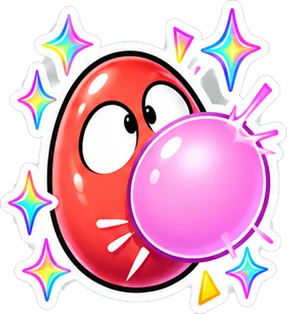
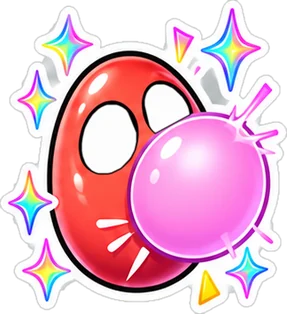
Album v3: 94 Sky Tower story cards st25..st118 + re-fixed s060/s181 (no pupils)
Claude-Session: https://claude.ai/code/session_01LHndj2uT8edrVs5YnsiCos

diff --git a/index.html b/index.html
@@ -7,7 +7,7 @@
 <style>html,body{overscroll-behavior:none;-webkit-user-select:none;user-select:none;-webkit-touch-callout:none;-webkit-tap-highlight-color:transparent}
 #pwaHint{position:fixed;left:12px;right:12px;bottom:calc(14px + env(safe-area-inset-bottom));z-index:99999;background:#1b1240;color:#fff;border:3px solid #120d2b;border-radius:18px;padding:12px 44px 12px 14px;font:600 15px/1.35 Rubik,system-ui,sans-serif;box-shadow:0 6px 0 #0a0620,0 10px 30px rgba(0,0,0,.4);direction:rtl}
 #pwaHint b{color:#ffd23f}#pwaHint button{position:absolute;top:8px;left:10px;background:none;border:0;color:#fff;font-size:22px;line-height:1}</style>
-<script>(function(){var OK=["en", "he", "es", "pt", "fr", "de", "it", "ru", "tr", "ar", "ja", "ko", "zh", "id"];window.LANG_NAMES={"en": "English", "he": "עברית", "es": "Español", "pt": "Português", "fr": "Français", "de": "Deutsch", "it": "Italiano", "ru": "Русский", "tr": "Türkçe", "ar": "العربية", "ja": "日本語", "ko": "한국어", "zh": "中文", "id": "Indonesia"};function dl(){var a=navigator.languages&&navigator.languages.length?navigator.languages:[navigator.language||'en'];for(var i=0;i<a.length;i++){var c=String(a[i]||'').toLowerCase().split(/[-_]/)[0];if(c==='iw')c='he';if(c==='in')c='id';if(OK.indexOf(c)>=0)return c}return 'en'}var d=dl(),s=null;try{s=localStorage.getItem('sharliz-lang')}catch(e){}var l=(s==='en'||s===d)?s:d;window.SHZ_DEV=d;window.SHZ_LANG=l;window.LANGX=null;window.T_=function(x){var X=window.LANGX;return X&&X.pairs&&X.pairs[x]!=null?X.pairs[x]:x};if(l!=='en'&&l!=='he')document.write('<script src="art/i18n_'+l+'.js?v=sharliz-20261008125735"><\/script>')})();</script>
+<script>(function(){var OK=["en", "he", "es", "pt", "fr", "de", "it", "ru", "tr", "ar", "ja", "ko", "zh", "id"];window.LANG_NAMES={"en": "English", "he": "עברית", "es": "Español", "pt": "Português", "fr": "Français", "de": "Deutsch", "it": "Italiano", "ru": "Русский", "tr": "Türkçe", "ar": "العربية", "ja": "日本語", "ko": "한국어", "zh": "中文", "id": "Indonesia"};function dl(){var a=navigator.languages&&navigator.languages.length?navigator.languages:[navigator.language||'en'];for(var i=0;i<a.length;i++){var c=String(a[i]||'').toLowerCase().split(/[-_]/)[0];if(c==='iw')c='he';if(c==='in')c='id';if(OK.indexOf(c)>=0)return c}return 'en'}var d=dl(),s=null;try{s=localStorage.getItem('sharliz-lang')}catch(e){}var l=(s==='en'||s===d)?s:d;window.SHZ_DEV=d;window.SHZ_LANG=l;window.LANGX=null;window.T_=function(x){var X=window.LANGX;return X&&X.pairs&&X.pairs[x]!=null?X.pairs[x]:x};if(l!=='en'&&l!=='he')document.write('<script src="art/i18n_'+l+'.js?v=sharliz-20261008172617"><\/script>')})();</script>
 </head><body>
 <title>Sharliz Stack</title>
 <style>
@@ -8342,7 +8342,7 @@ const GOLDS=[
  ['g28',T_('Golden Landing'),'נחיתת הזהב',T_('The perfect landing, forever in gold.'),'הנחיתה המושלמת, לנצח בזהב.'],
  ['g29',T_('Golden Album'),'אלבום הזהב',T_('For the greatest collector of all.'),'לאספן הגדול מכולם.'],
  ['g30',T_('Golden Egg'),'ביצת הזהב',T_('Something legendary is about to hatch...'),'משהו אגדי עומד לבקוע...']];
-const STK3_ART=new Set(["g01", "g02", "g03", "g04", "g05", "g06", "s025", "s026", "s027", "s028", "s029", "s030", "s031", "s032", "s033", "s034", "s035", "s036", "s037", "s038", "s039", "s040", "s041", "s042", "s043", "s044", "s045", "s046", "s047", "s048", "s049", "s050", "s051", "s052", "s053", "s054", "s055", "s056", "s057", "s058", "s059", "s060", "s061", "s062", "s063", "s064", "s065", "s066", "s067", "s068", "s069", "s070", "s071", "s072", "s073", "s074", "s075", "s076", "s077", "s078", "s079", "s080", "s081", "s082", "s083", "s084", "s085", "s086", "s087", "s088", "s089", "s090", "s091", "s092", "s093", "s094", "s095", "s096", "s097", "s098", "s099", "s100", "s101", "s102", "s103", "s104", "s105", "s106", "s107", "s108", "s109", "s110", "s111", "s112", "s113", "s114", "s115", "s116", "s117", "s118", "s119", "s120", "s121", "s122", "s123", "s124", "s125", "s126", "s127", "s128", "s129", "s130", "s131", "s132", "s133", "s134", "s135", "s136", "s137", "s138", "s139", "s140", "s141", "s142", "s143", "s144", "s145", "s146", "s147", "s148", "s149", "s150", "s151", "s152", "s153", "s154", "s155", "s156", "s157", "s158", "s159", "s160", "s161", "s162", "s163", "s164", "s165", "s166", "s167", "s168", "s181", "s182", "s183", "s184", "s185", "s186", "s187", "s188", "s189", "s190", "s191", "s192", "s193", "s194", "s195", "s196", "s197", "s198", "s199", "s200", "s201", "s202", "s203", "s204", "s205", "s206", "s207", "s208", "s209", "s210", "s211", "s212", "s213", "s214", "s215", "s216", "s217", "s218", "s219", "s220", "s221", "s222", "s223", "s224", "s225", "s226", "s227", "s228", "s229", "s230", "s231", "s232", "s233", "s234", "s235", "s236", "s237", "s238", "s239", "s240", "s241", "s242", "s243", "s244", "s245", "s246", "s247", "s248", "s249", "s250", "s251", "s252", "s253", "s254", "s255", "s256", "s257", "s258", "s259", "s260", "s261", "s262", "s263", "s264", "s265", "s266", "s267", "s268", "s269", "s270", "st01", "st02", "st03", "st04", "st05", "st06", "st07", "st08", "st09", "st10", "st11", "st12", "st13", "st14", "st15", "st16", "st17", "st18", "st19", "st20", "st21", "st22", "st23", "st24"]),has3=id=>STK3_ART.has(id);
+const STK3_ART=new Set(["g01", "g02", "g03", "g04", "g05", "g06", "s025", "s026", "s027", "s028", "s029", "s030", "s031", "s032", "s033", "s034", "s035", "s036", "s037", "s038", "s039", "s040", "s041", "s042", "s043", "s044", "s045", "s046", "s047", "s048", "s049", "s050", "s051", "s052", "s053", "s054", "s055", "s056", "s057", "s058", "s059", "s060", "s061", "s062", "s063", "s064", "s065", "s066", "s067", "s068", "s069", "s070", "s071", "s072", "s073", "s074", "s075", "s076", "s077", "s078", "s079", "s080", "s081", "s082", "s083", "s084", "s085", "s086", "s087", "s088", "s089", "s090", "s091", "s092", "s093", "s094", "s095", "s096", "s097", "s098", "s099", "s100", "s101", "s102", "s103", "s104", "s105", "s106", "s107", "s108", "s109", "s110", "s111", "s112", "s113", "s114", "s115", "s116", "s117", "s118", "s119", "s120", "s121", "s122", "s123", "s124", "s125", "s126", "s127", "s128", "s129", "s130", "s131", "s132", "s133", "s134", "s135", "s136", "s137", "s138", "s139", "s140", "s141", "s142", "s143", "s144", "s145", "s146", "s147", "s148", "s149", "s150", "s151", "s152", "s153", "s154", "s155", "s156", "s157", "s158", "s159", "s160", "s161", "s162", "s163", "s164", "s165", "s166", "s167", "s168", "s181", "s182", "s183", "s184", "s185", "s186", "s187", "s188", "s189", "s190", "s191", "s192", "s193", "s194", "s195", "s196", "s197", "s198", "s199", "s200", "s201", "s202", "s203", "s204", "s205", "s206", "s207", "s208", "s209", "s210", "s211", "s212", "s213", "s214", "s215", "s216", "s217", "s218", "s219", "s220", "s221", "s222", "s223", "s224", "s225", "s226", "s227", "s228", "s229", "s230", "s231", "s232", "s233", "s234", "s235", "s236", "s237", "s238", "s239", "s240", "s241", "s242", "s243", "s244", "s245", "s246", "s247", "s248", "s249", "s250", "s251", "s252", "s253", "s254", "s255", "s256", "s257", "s258", "s259", "s260", "s261", "s262", "s263", "s264", "s265", "s266", "s267", "s268", "s269", "s270", "st01", "st02", "st03", "st04", "st05", "st06", "st07", "st08", "st09", "st10", "st100", "st101", "st102", "st103", "st104", "st105", "st106", "st107", "st108", "st109", "st11", "st110", "st111", "st112", "st113", "st114", "st115", "st116", "st117", "st118", "st12", "st13", "st14", "st15", "st16", "st17", "st18", "st19", "st20", "st21", "st22", "st23", "st24", "st25", "st26", "st27", "st28", "st29", "st30", "st31", "st32", "st33", "st34", "st35", "st36", "st37", "st38", "st39", "st40", "st41", "st42", "st43", "st44", "st45", "st46", "st47", "st48", "st49", "st50", "st51", "st52", "st53", "st54", "st55", "st56", "st57", "st58", "st59", "st60", "st61", "st62", "st63", "st64", "st65", "st66", "st67", "st68", "st69", "st70", "st71", "st72", "st73", "st74", "st75", "st76", "st77", "st78", "st79", "st80", "st81", "st82", "st83", "st84", "st85", "st86", "st87", "st88", "st89", "st90", "st91", "st92", "st93", "st94", "st95", "st96", "st97", "st98", "st99"]),has3=id=>STK3_ART.has(id);
 SHZ.forEach(s=>{if(!s[6])s[6]='classic'});SHZ.push(...SHZ3.filter(s=>has3(s[0])));
 Object.assign(I18N.en,{pg_gold:'Gold',hint_gold:'A legendary feat',sbRar_g:'Gold',sec_classic:'Classics',sec_short:'Short stories',stCh:'Chapter {n}',
   sbToc:'Contents',sbWhole:'The whole chapter',stNext:'Next part: win {n} more levels',stLater:'Keep playing to see what happens next',stNew:'A new story card!',

diff --git a/sw.js b/sw.js
@@ -1,4 +1,4 @@
-const V='sharliz-20261008125735';
+const V='sharliz-20261008172617';
 const CORE=['./','index.html','manifest.webmanifest','art/three.min.js','art/fonts/lilita.woff','art/fonts/secular.woff','art/fonts/rubik.woff','icons/icon-192.png'];
 self.addEventListener('install',e=>{e.waitUntil(caches.open(V).then(c=>c.addAll(CORE)).then(()=>self.skipWaiting()))});
 self.addEventListener('activate',e=>{e.waitUntil(caches.keys().then(ks=>Promise.all(ks.filter(k=>k!==V).map(k=>caches.delete(k)))).then(()=>self.clients.claim()))});

diff --git a/CLAUDE.md b/CLAUDE.md
@@ -191,5 +191,5 @@ Fix Oct 7 (branch fix-nest-grid, end of v56.css): nest 'My buddies' grid ran off
 Done Oct 7 (branch bonus-stickers, PR #26): bonus stage 45 s (Tzach's pick, gold chest reachable), album 'Open all' + golden packs (earned only) + slower story cards (see v50/v57/v58 lines), the 11 new buddies' album cards, and the whole album redrawn by the graphics thread (88 cards: stk_w_*, stk_b_*, stk_st01-18, the 10 old stk_p_*; every Sharliz a different face/colour, no pupils; source /mnt/project-files/graphics/stickers/album_cards/, approved by Tzach).
 Done Oct 8 (branch mech-videos): 30 mechanic videos (v62, tools/mechvid) + game fixes the recordings exposed (build.py 'mechanic videos' reps + v44): the ghost never made the Sharliz see-through (drawSharliz0 reset globalAlpha; now s._ga), hail candies already in the air still hit after the PERFECT that stops the hail, the aim guide showed an off-centre ice landing as OK (it slips), the meteor's fire trail pointed the wrong way, a stale frame timestamp could run game time backwards (dt clamped at 0). Open design notes (not changed): waves/dunes/cloud drift are mild, conveyor topple can follow a 'Perfect!', jellyfish zap direction is random.
 Nightly check (Tzach, Oct 7): the bug-fix thread is never closed; a Routine wakes it every night at 00:59 Israel time to check that everything is connected and there are no bugs (checklist + screen sweep: /mnt/project-files/testing/nightly/README.md, sweep.py = 18 screens × languages × iPhone 15/SE: JS errors, 404s, sideways lists, cut-off buttons, orphan title characters). First run Oct 8 (branch fix-nightly-2026-10-08, end of v58.js/v58.css): Settings save-code 'Load' button was cut off by the card in German/Russian (row now wraps); Japanese/Chinese/Korean big titles broke mid-word ('マイヒーロ / ー', lobby 'プレ / イ'): a MutationObserver shrinks a wrapping CJK title step by step to one line (≥60%, else wraps as before).
-Album v3 art (Oct 8, tools/album_import.py): in the game = regular s025..s270 except s169..s180 (being redrawn), story st19..st24, gold g01..g06. Still to come from the graphics department: story st25..st118 (redone as 3:4), gold g07..g30, s169..s180, s271 (ballerina 'Pirouette power'). Import a batch with only its subfolder (a temp folder holding a symlink to regular/ etc.) so unfinished cards in the other folders are not pulled in.
+Album v3 art (Oct 8, tools/album_import.py): in the game = regular s025..s270 except s169..s180 (being redrawn; s060/s181 re-fixed for pupils), story st19..st118 (all 100, 420x560 3:4 → 390x520), gold g01..g06. Still to come from the graphics department: gold g07..g30, s169..s180, s271 (ballerina 'Pirouette power'). Import a batch with only its subfolder (a temp folder holding a symlink to regular/ etc.) so unfinished cards in the other folders are not pulled in.
 Backlog: Tzach's own illustrations for the album "specials" page + how to earn them, check performance on iPhone.
